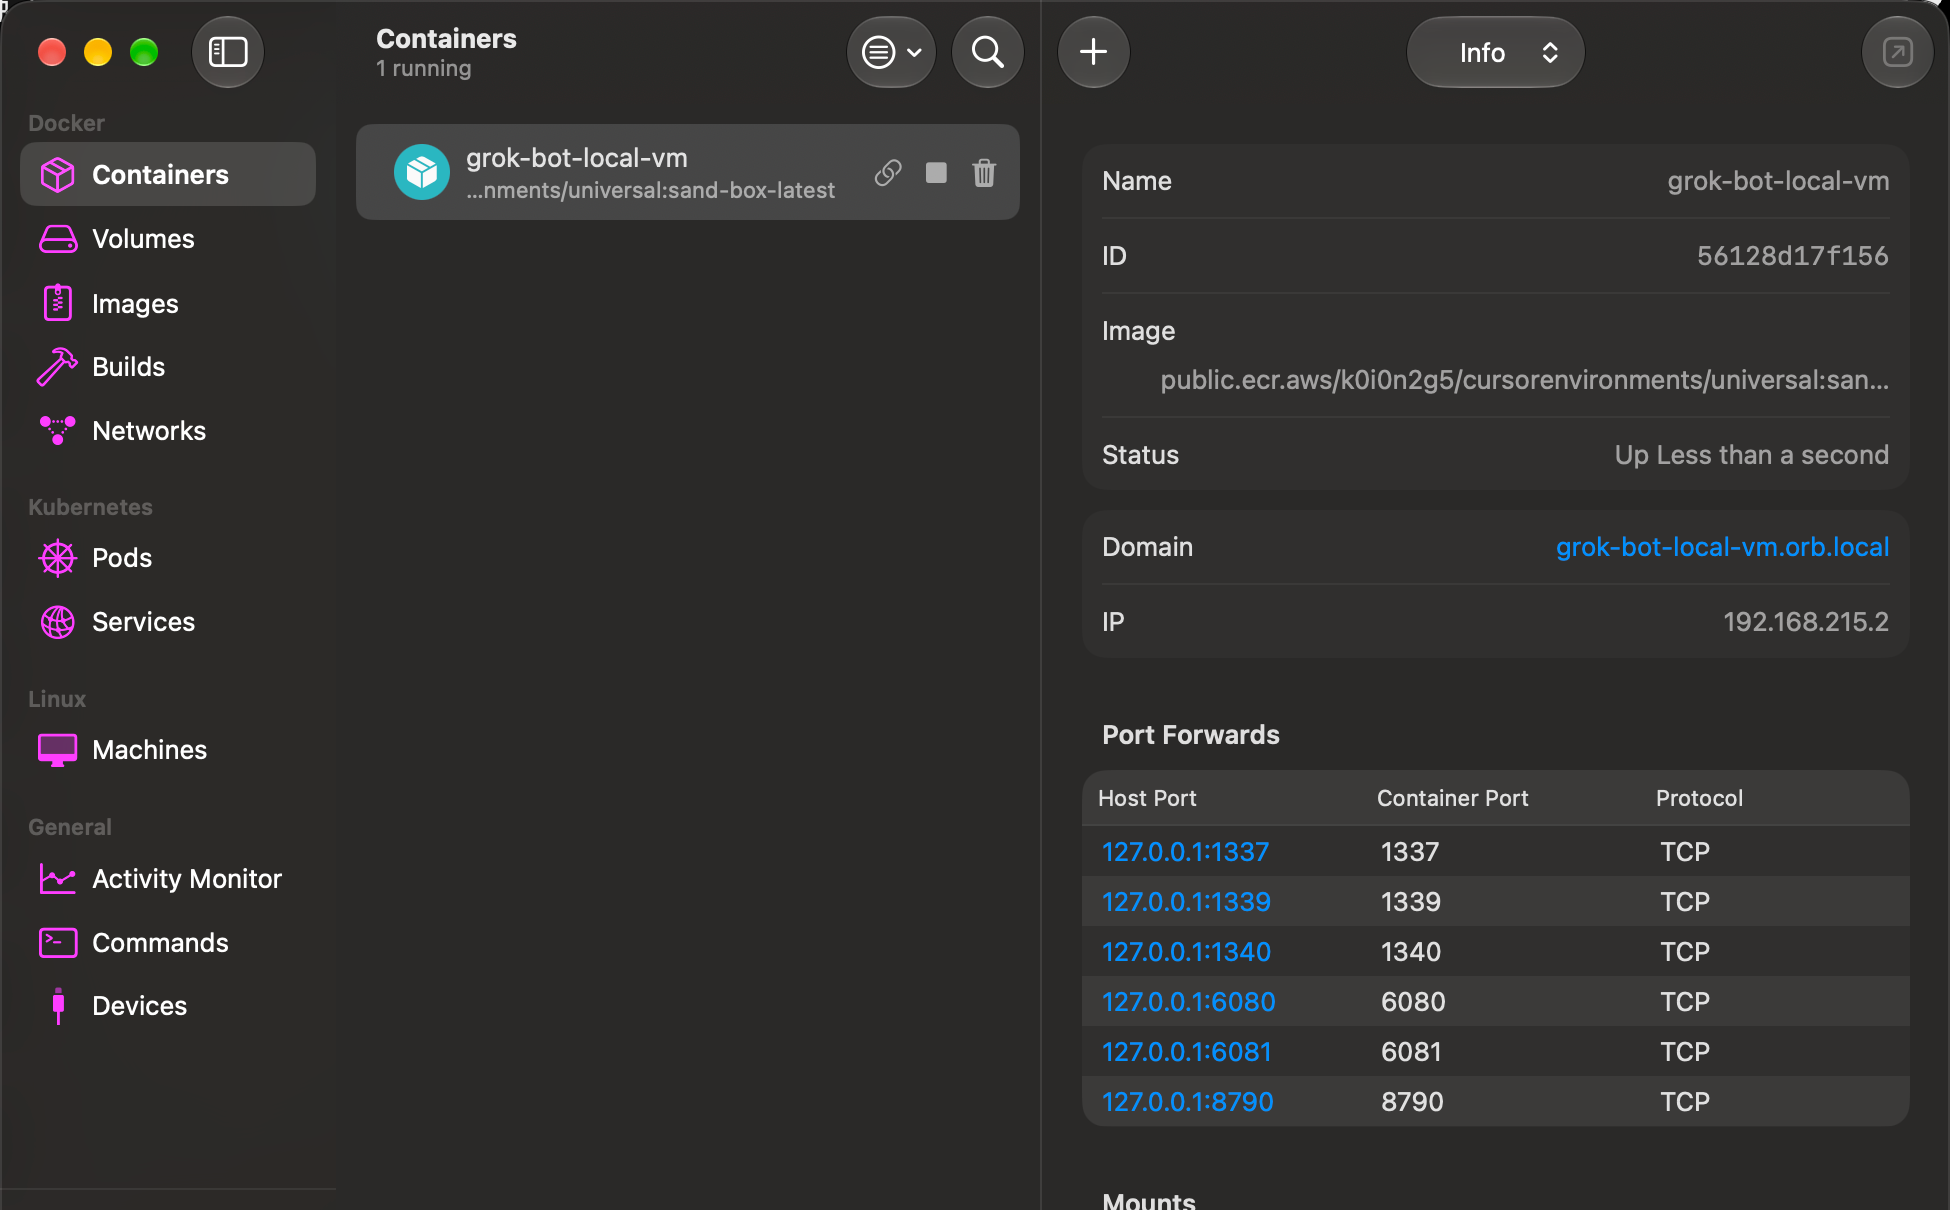
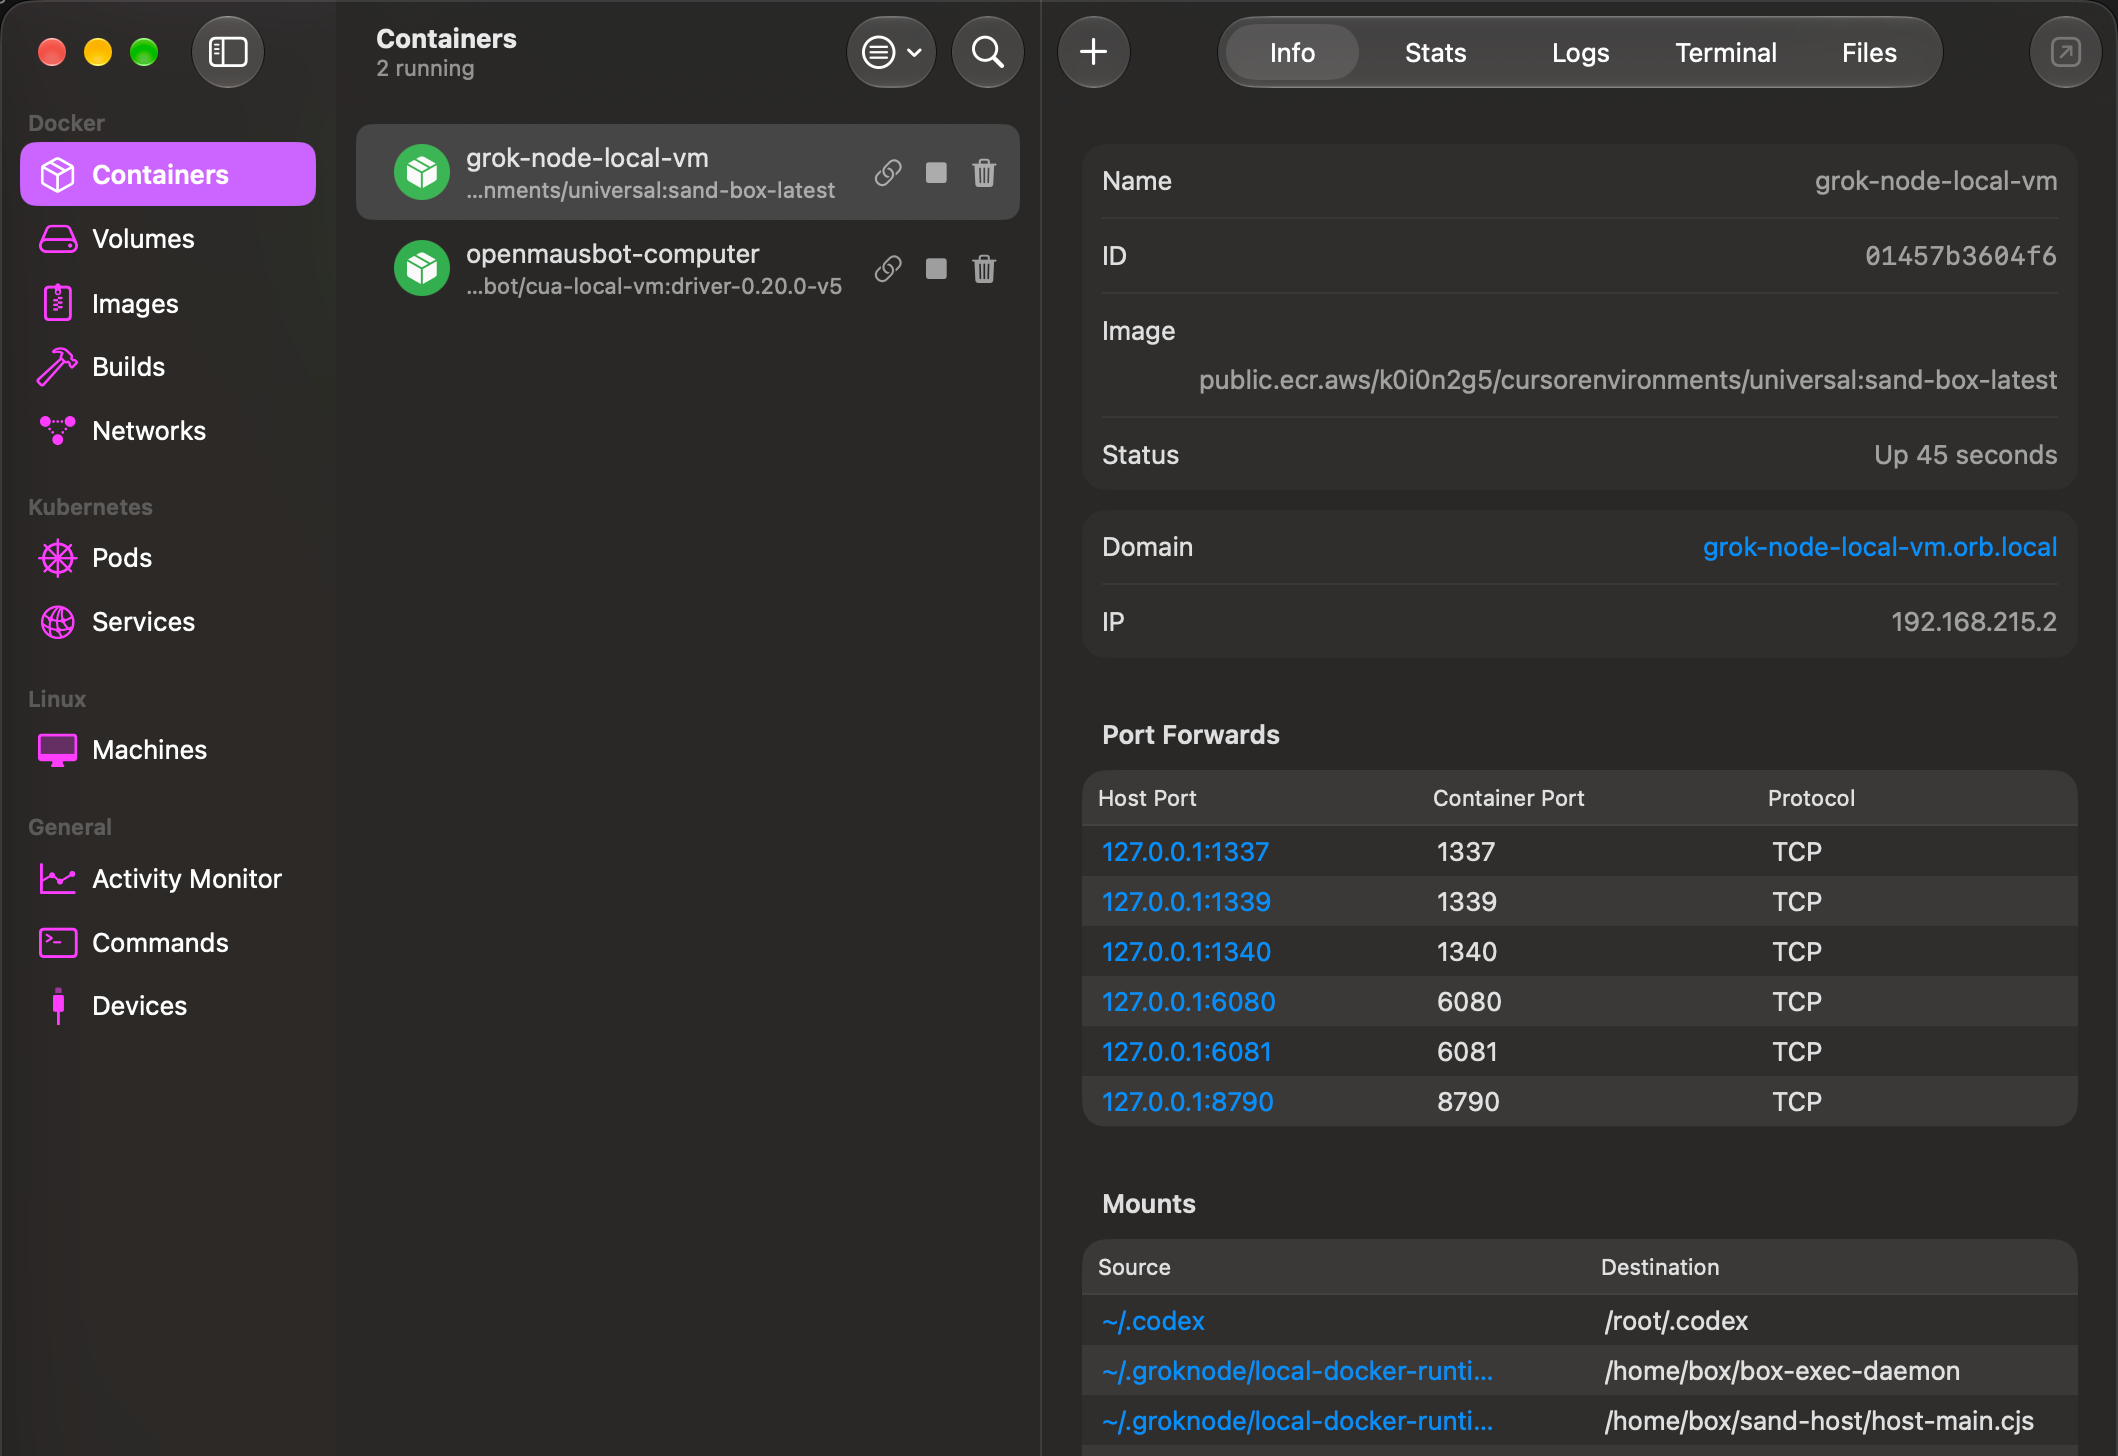
Rename the local Docker container to grok-node-local-vm in the docs
Refresh the OrbStack screenshot so the container name and orb.local
domain match the renamed container.

diff --git a/README.md b/README.md
@@ -120,13 +120,13 @@ box 运行时目前只有一个选项：本地 Docker VM，也是默认值。Gro
 - 在 coordinator 连接之前先通过校验；并且
 - 通过同一套设置生命周期停止或替换。
 
-容器名为 `grok-bot-local-vm`。应用代码引用的镜像标签是
+容器名为 `grok-node-local-vm`。应用代码引用的镜像标签是
 `public.ecr.aws/k0i0n2g5/cursorenvironments/universal:sand-box-latest`；2026-09-24
 已验证的镜像版本为 git-sha `12c7367`，不可变 digest 为
 `sha256:f9dff5cd254d9fac936f33754b8950e50443bacffdf0fdc61cf5b23d72a82856`。复现或排障时
 可以使用 `public.ecr.aws/k0i0n2g5/cursorenvironments/universal@sha256:f9dff5cd254d9fac936f33754b8950e50443bacffdf0fdc61cf5b23d72a82856`
 锁定该版本；`sand-box-latest` 标签之后可能继续指向更新的镜像。OrbStack 把容器发布为域名
-`grok-bot-local-vm.orb.local`。六个端口转发到宿主机的回环地址：
+`grok-node-local-vm.orb.local`。六个端口转发到宿主机的回环地址：
 
 | 宿主端口 | 用途 |
 | --- | --- |
